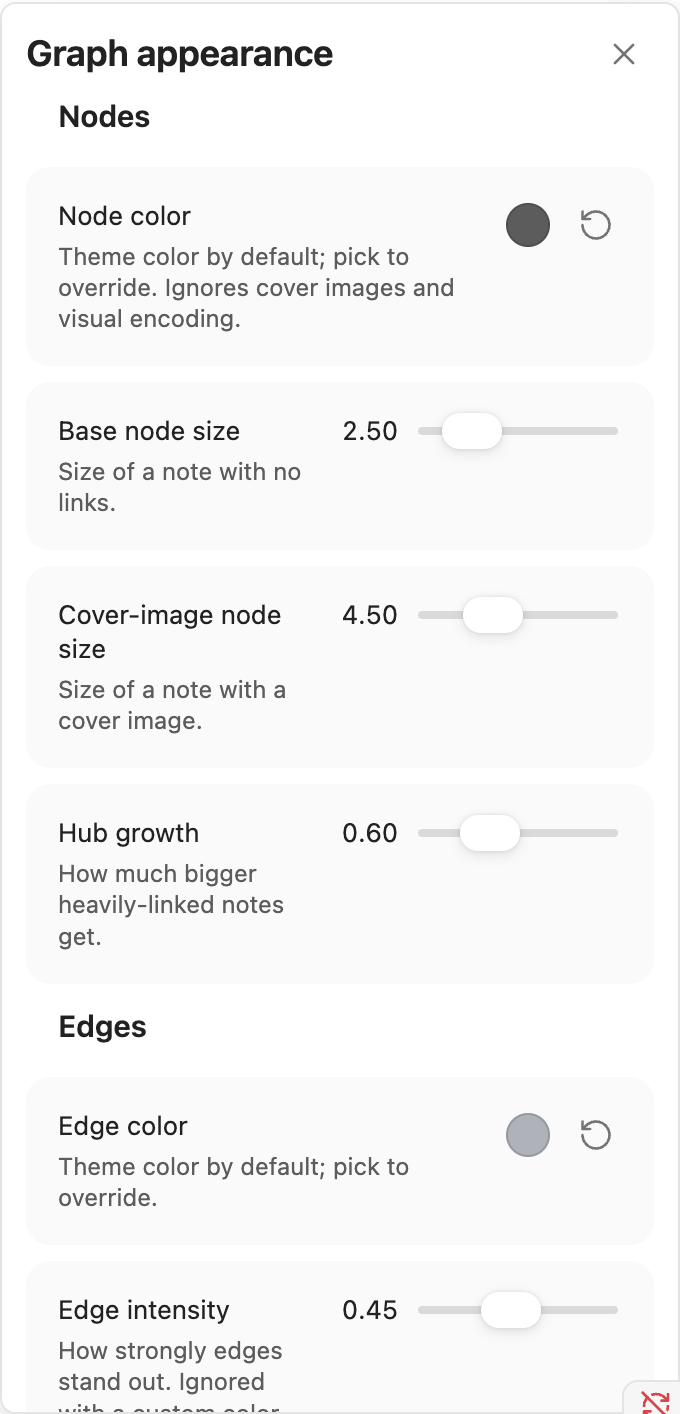
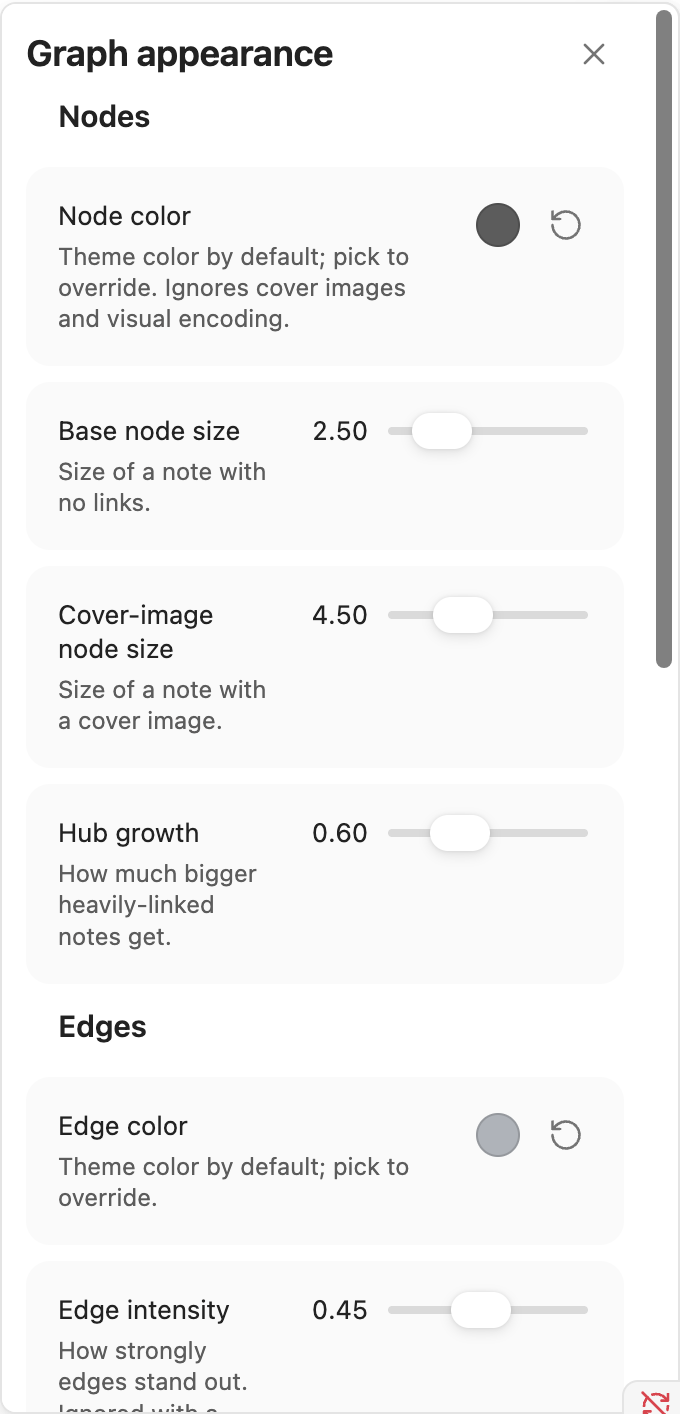
docs: add Timeline to README, guide, and screenshots
- README/docs introduction/homepage/FAQ: Timeline mentioned alongside
  every other panel, with a new FAQ entry on the two pace modes.
- New docs/guide/timeline.md, wired into the sidebar between Color &
  size and Appearance (matching the toolbar's own icon order).
- scripts/screenshots.mjs captures the Timeline panel too.
- Real screenshots (incl. timeline-panel-{light,dark}.png) re-captured
  via docs:shots - the toolbar's extra icon shifted several existing
  panel screenshots slightly, hence the other screens/*.png changes.

diff --git a/docs/guide/timeline.md b/docs/guide/timeline.md
@@ -1,0 +1,28 @@
+# Timeline
+
+Click the **Timeline** toolbar icon (the clock-with-arrow) to replay your vault's notes and links in the order they were created.
+
+<figure class="shot shot-narrow">
+  <img class="doc-shot light-only" src="/screens/timeline-panel-light.png" alt="The Timeline panel, light theme">
+  <img class="doc-shot dark-only" src="/screens/timeline-panel-dark.png" alt="The Timeline panel, dark theme">
+  <figcaption>Play, scrubber, current date, duration, and pace mode.</figcaption>
+</figure>
+
+Opening it jumps the graph back to the very beginning - before your first note existed - ready to press Play. New notes and links grow in as they appear rather than just popping into place.
+
+> **An approximation, not exact history.** Obsidian doesn't record *when* a link was actually added to a note, only each file's own creation time. A link shows up as soon as both its notes exist, which may be earlier than the link itself was actually drawn. Obsidian's own core Graph View has the same limitation.
+
+## Controls
+
+- **Play / Pause** - starts replaying from wherever the scrubber sits (or from the very beginning, if playback already finished).
+- **Scrubber** - drag to jump straight to any point, without pressing Play.
+- **Duration** - how long the *whole* replay takes: 10s, 30s, 1 min, or 3 min. Picking a duration doesn't change what's shown, only how fast playback moves through it.
+- **Pace mode** - how that duration is spent:
+  - **Real time** (the default) - playback maps proportionally onto your vault's actual date span, so the time you're spending watching corresponds to real elapsed history. A vault with a long quiet stretch followed by a burst of new notes will sit still for most of the replay, then reveal that burst near the end.
+  - **Even pace** - playback instead advances one step per distinct creation moment, evenly spaced regardless of the calendar gap between them, so something visibly changes throughout the whole replay. Useful if "real time" pacing leaves your vault looking frozen for too long.
+
+Both are legitimate depending on what your vault's own date spread looks like - there's no single right answer, so it's a setting rather than a fixed choice. Your last picks for duration and pace mode are remembered the next time you open Clew.
+
+## Interaction with Filter
+
+Scrubbing the timeline away from "today" takes over from an active filter, the same way switching to Find path would - only one of them controls what's visible at a time. Scrub back to "today", or close the panel, to hand control back to your filter.

diff --git a/README.md b/README.md
@@ -21,6 +21,7 @@ Obsidian's built-in graph shows everything at once, but it's a single fixed view
 - **Which notes are orphaned or isolated.** With no links in or out, they drift to the outskirts under the default Force layout on their own - an easy way to spot notes worth linking up or archiving.
 - **Which topic areas have gone stale.** The "cluster freshness" criterion detects communities of linked notes, then compares how recently each one was edited relative to the others - so an old project's whole neighborhood can get its own color without you defining what "old" means note by note.
 - **How everything relates to one specific note.** The Radial layout rings out every other note by hop distance from a note you pick.
+- **How your vault grew over time.** The Timeline panel replays notes and links in creation order, revealing bursts of activity or long quiet stretches.
 
 Nothing here edits your notes - filters, groups, and appearance settings are Clew's own saved state, completely separate from your note content.
 
@@ -36,6 +37,7 @@ Nothing here edits your notes - filters, groups, and appearance settings are Cle
 - **Choose a layout that fits what you're looking at.** Force-directed (the default - related notes cluster together), Hierarchical (top-down, for vaults with a real outline structure), Radial (rings out from one note by link distance), or Circular (every note evenly spaced, good for spotting recurring patterns). The layout picker explains what each one is for.
 - **Filter down to what matters.** Build named, reusable filters from tags, properties, folder, filename, text, link count, edit recency, or how active/stale a note's neighborhood is - and invert any of them ("in this folder" ↔ "not in this folder") with one click. Combine several filters with either/or logic.
 - **Color and size notes by your own rules.** Same criteria as filtering, applied as named, colored groups instead - so "everything tagged #project" or "notes I haven't touched in 30 days" gets its own color and size at a glance, with a legend explaining what's on screen.
+- **Watch your vault grow.** The Timeline panel replays your notes and links in the order they were created - pick how long the replay takes and whether it paces evenly or maps onto real elapsed time.
 - **Tune the look live.** Node/edge size, color, physics, and label density are all adjustable while watching the graph react.
 - **Interact directly with the graph.** Click a node to open that note, hover one to highlight its connections, drag a note to pin it exactly where you want it.
 

diff --git a/docs/guide/introduction.md b/docs/guide/introduction.md
@@ -7,6 +7,7 @@ Obsidian's built-in graph shows you everything at once, but it's a single fixed 
 - **Layout** - pick how notes are arranged: force-directed (the default), hierarchical, radial, or circular.
 - **Filter** - hide everything except notes matching one or more named, reusable filters.
 - **Color & size** - recolor and resize notes into named groups, by the same kind of criteria filters use.
+- **Timeline** - replay your notes and links in the order they were created.
 - **Appearance** - tune node/edge size, color, physics, and labels live.
 
 Nothing here edits your notes. Filters, groups, and appearance settings are all Clew's own saved state (per vault), completely separate from your note content.
@@ -24,6 +25,7 @@ Nothing here edits your notes. Filters, groups, and appearance settings are all 
 - **Which topic areas have gone stale.** Color & size's "cluster freshness" criterion runs community detection on your link graph, then compares how recently each detected cluster was edited relative to the others - so, say, an old project's whole neighborhood of notes can get its own color without you having to define what "old project" means note by note.
 - **Which individual notes haven't been touched in a while.** Filter or group by "not edited in the last N days," independent of which cluster a note belongs to.
 - **How everything relates to one specific note.** The Radial layout arranges every other note in rings by hop distance from a note you pick - useful for seeing exactly what's actually connected to it, and how closely.
+- **How your vault grew.** The Timeline panel replays notes and links in creation order - useful for spotting a burst of activity, a long quiet stretch, or just how far back your oldest notes go.
 
 ## Why "Clew"?
 
@@ -32,5 +34,5 @@ A *clew* is a ball of thread - the one Theseus used to find his way back out of 
 ## Where to go next
 
 - [Getting started](./getting-started) - open the graph for the first time.
-- [Layouts](./layouts), [Filter](./filter), [Color & size](./color-and-size), [Appearance](./appearance) - one page per panel, in the order their toolbar icons appear.
+- [Layouts](./layouts), [Filter](./filter), [Color & size](./color-and-size), [Timeline](./timeline), [Appearance](./appearance) - one page per panel, in the order their toolbar icons appear.
 - [Interacting with the graph](./interactions) - clicking, hovering, and pinning notes.

diff --git a/docs/reference/faq.md b/docs/reference/faq.md
@@ -15,6 +15,10 @@ Two possible reasons, and Clew tells you which:
 
 If you dragged it to pin it, switching layouts and back to Force should restore it - pinning only applies in Force layout (see [Interacting with the graph](../guide/interactions)). If it's still not where you expect, check the [Appearance panel](../guide/appearance)'s "Pinned node positions" - "Clear all" resets every pin, in case one was pinned unintentionally.
 
+## Why does the Timeline jump or sit still?
+
+It depends on the pace mode you picked (see [Timeline](../guide/timeline)). "Real time" maps playback onto your vault's actual date span, so a long quiet stretch in your notes' history means playback sits still for a while too, before a burst of newer notes appears quickly. "Even pace" instead advances evenly no matter how far apart notes were actually created, so something is always visibly happening - at the cost of the date shown sometimes jumping a lot between two ticks. Neither is wrong; pick whichever reads better for your vault.
+
 ## Where's "Find path"?
 
 Finding the shortest, hub-avoiding path between two notes (and exporting it to a Canvas file) is built but not switched on yet - see the note in the [README](https://github.com/christian-luger-at/obsidian-clew#what-you-can-do).

diff --git a/docs/index.md b/docs/index.md
@@ -32,6 +32,9 @@ features:
   - icon: 🎨
     title: Color & size by your own rules
     details: The same criteria as filtering, applied as named, colored groups instead - so "everything tagged #project" gets its own color and size at a glance.
+  - icon: 🕰
+    title: Watch your vault grow
+    details: The Timeline panel replays notes and links in the order they were created, at a duration and pace you pick.
   - icon: 🎛
     title: Live appearance tuning
     details: Node/edge size, color, physics, and label density are all adjustable while watching the graph react immediately.
